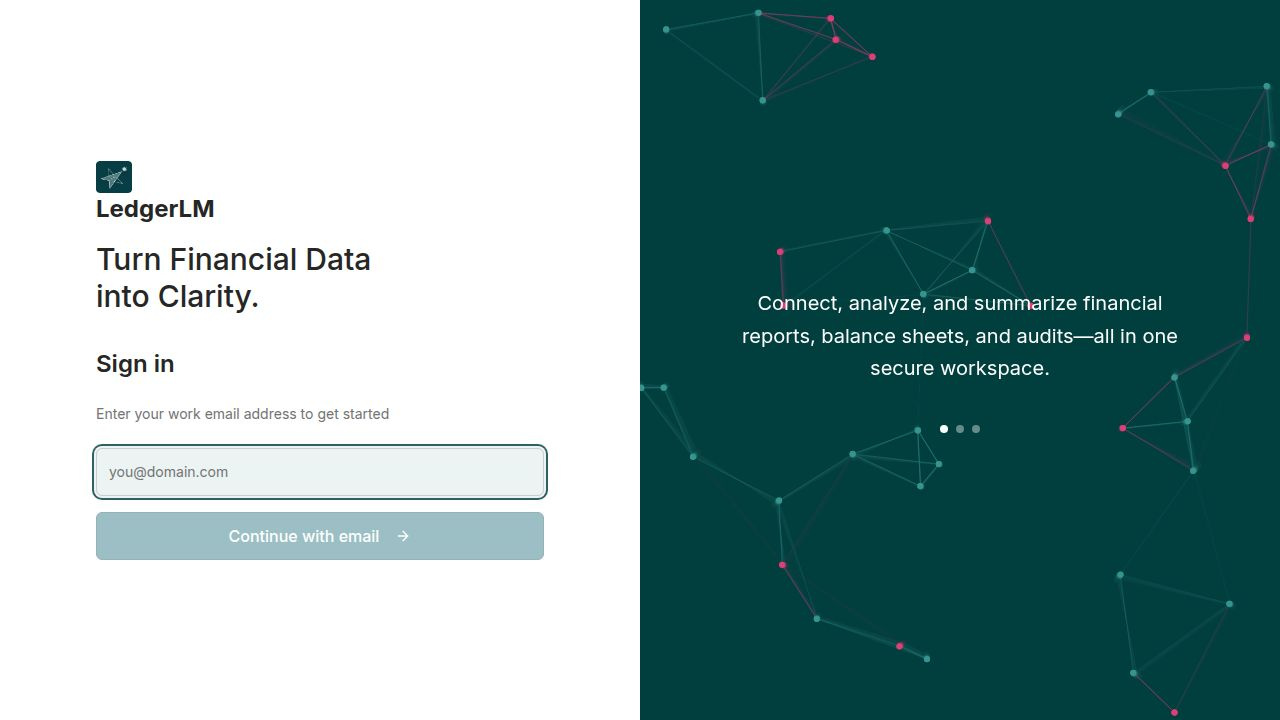
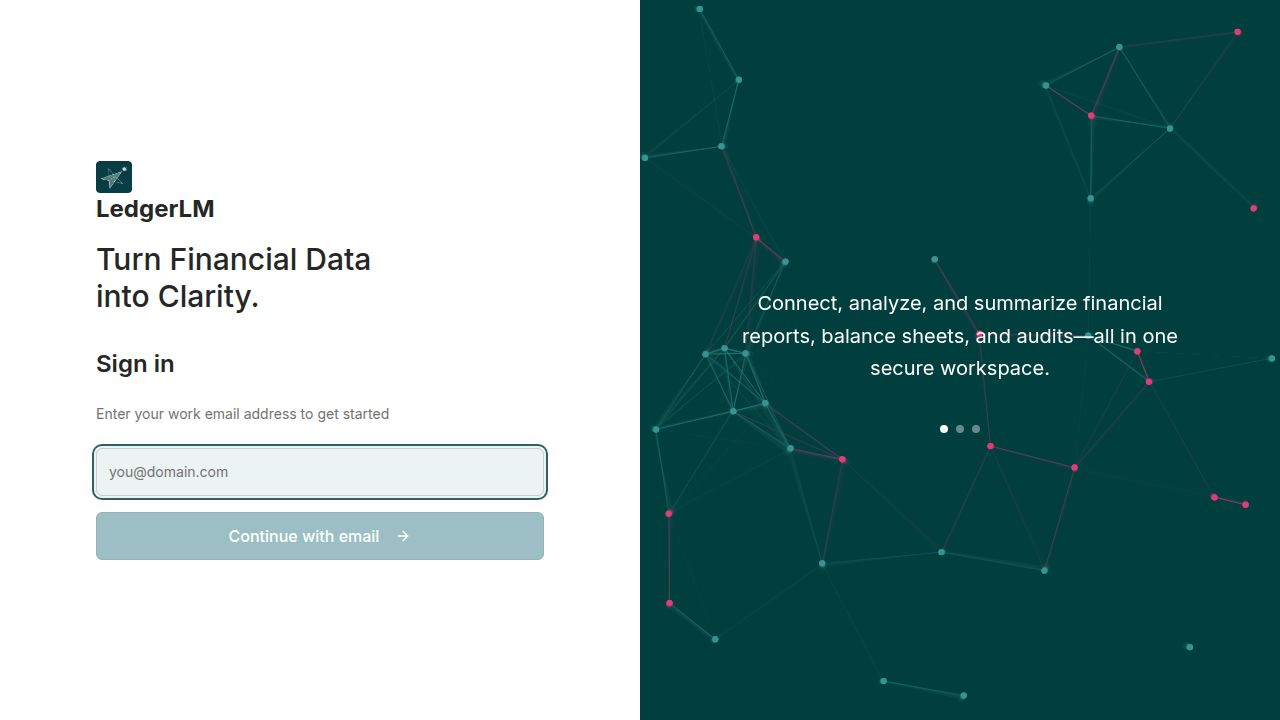
Add ability to query multiple metrics simultaneously
Update LLM prompts and backend logic to support selecting and merging results from multiple metrics in a single query, including a new helper function `_compile_multi_metric_sql` and modifications to `parse_query_with_llm`.

Replit-Commit-Author: Agent
Replit-Commit-Session-Id: 25b33a7b-de29-4b11-a0fe-f6c2087462d3
Replit-Commit-Checkpoint-Type: full_checkpoint
Replit-Commit-Event-Id: 413769ee-c68b-4ccc-88e5-ec9bda55f895
Replit-Commit-Screenshot-Url: https://storage.googleapis.com/screenshot-production-us-central1/9344d74b-0c6d-402b-95ed-00d2c859d007/25b33a7b-de29-4b11-a0fe-f6c2087462d3/YuCQRBi

diff --git a/ledgerlm/python_backend/services/semantic_sql_service.py b/ledgerlm/python_backend/services/semantic_sql_service.py
@@ -883,7 +883,7 @@ Given a user query, identify:
 3. How to group results (entity, salary_level, sector, etc.)
 4. Any filters to apply (including view filters)
 
-METRIC CATALOG (choose EXACTLY one metric_id):
+METRIC CATALOG (choose one or more metric_ids — include ALL metrics the user asks about):
 {metrics}
 
 VIEW FILTERS (add to filters if user mentions these):
@@ -932,7 +932,7 @@ MONTH AND QUARTER RULES:
 
 Respond with ONLY valid JSON (no markdown, no explanation):
 {{
-  "metric": "<exact metric_id from catalog>",
+  "metrics": ["<metric_id_1>", "<metric_id_2_if_requested>"],
   "year": <number>,
   "month": <single number, list of numbers, or null for YTD>,
   "group_by": ["<grouping columns>"],
@@ -940,6 +940,10 @@ Respond with ONLY valid JSON (no markdown, no explanation):
   "view": "<MS|SX|VM|PS|XC|Entity or null>",
   "confidence": <0.0 to 1.0>
 }}
+
+IMPORTANT: "metrics" is ALWAYS an array, even for a single metric.
+If the user asks for multiple metrics (e.g. "offshore capacity AND budget"), list ALL of them.
+If the user asks for ONE metric, still use an array with one element: ["metric_id"].
 
 USER QUERY: {query}"""
 
@@ -954,9 +958,21 @@ def parse_query_with_llm(query: str, openai_client=None) -> Dict[str, Any]:
             if result_text.startswith("json"): result_text = result_text[4:]
             result_text = result_text.strip()
         parsed = json.loads(result_text)
-        metric_id = parsed.get("metric", "")
-        if metric_id not in METRIC_CATALOG:
-            return {"success": False, "error": f"Unknown metric: {metric_id}", "raw_response": parsed}
+        # Support both "metrics": [...] (new) and "metric": "..." (legacy backward compat)
+        raw_metrics = parsed.get("metrics")
+        if not raw_metrics:
+            legacy = parsed.get("metric", "")
+            raw_metrics = [legacy] if legacy else []
+        if not raw_metrics:
+            return {"success": False, "error": "No metric returned by LLM", "raw_response": parsed}
+        # Validate all metric IDs — keep only known ones
+        valid_metrics = [m for m in raw_metrics if m in METRIC_CATALOG]
+        if not valid_metrics:
+            return {"success": False, "error": f"Unknown metric(s): {raw_metrics}", "raw_response": parsed}
+        # Primary metric (first valid) for backward compat fields
+        metric_id = valid_metrics[0]
+        parsed["metric"] = metric_id
+        parsed["metrics"] = valid_metrics
         parsed["builder"] = METRIC_CATALOG[metric_id]["builder"]
         parsed["success"] = True
         view = parsed.get("view", "").upper() if parsed.get("view") else None
@@ -11238,6 +11254,109 @@ Return a JSON object with:
 
     # ==================== END NEMKO P&L SQL BUILDERS ====================
 
+    def _compile_multi_metric_sql(
+        self,
+        metric_ids: List[str],
+        cube_id: str,
+        intent: Dict[str, Any],
+        domain: str = None,
+    ) -> Dict[str, Any]:
+        """
+        Run each metric builder independently (with its own intent copy) then
+        merge the result rows on shared dimension columns (region_entity, month,
+        year, etc.).  If any builder fails, its column is silently omitted so
+        the rest of the results still surface.
+        """
+        import copy, time
+        start = time.time()
+        all_results: List[Dict[str, Any]] = []
+        sql_queries: List[str] = []
+        failed: List[str] = []
+
+        for metric_id in metric_ids:
+            metric_intent = copy.deepcopy(intent)
+            metric_intent['use_calculation'] = metric_id
+            try:
+                compile_result = self.compile_calculation_sql(metric_id, cube_id, metric_intent, domain)
+                if not compile_result.get('success'):
+                    logger.warning(f"[MULTI-METRIC] compile failed for '{metric_id}': {compile_result.get('error')}")
+                    failed.append(metric_id)
+                    continue
+                sql = compile_result.get('sql') or compile_result.get('sql_query', '')
+                params = compile_result.get('params', [])
+                if not sql:
+                    logger.warning(f"[MULTI-METRIC] No SQL generated for '{metric_id}'")
+                    failed.append(metric_id)
+                    continue
+                exec_result = self.execute_query(sql, params, cube_id, user_id='system', skip_logging=True)
+                if exec_result.get('success') and exec_result.get('results') is not None:
+                    all_results.append({'metric_id': metric_id, 'rows': exec_result['results']})
+                    sql_queries.append(f"-- {metric_id}\n{sql}")
+                else:
+                    logger.warning(f"[MULTI-METRIC] execute failed for '{metric_id}': {exec_result.get('error')}")
+                    failed.append(metric_id)
+            except Exception as e:
+                logger.warning(f"[MULTI-METRIC] Exception for '{metric_id}': {e}")
+                failed.append(metric_id)
+
+        if not all_results:
+            return {
+                'success': False,
+                'error': f"All metric builders failed: {metric_ids}",
+                'use_rag': True,
+            }
+
+        # ── Merge rows on shared dimension keys ───────────────────────────────
+        # Dimension columns are non-numeric keys.  We use the first result's
+        # column set to detect them, then join subsequent results on those keys.
+        KNOWN_DIMENSION_KEYS = {
+            'region_entity', 'month', 'year', 'sector', 'salary_level',
+            'project_gb', 'planning_gb', 'resource_type', 'onsite_offshore',
+            'new_service_area', 'service_area', 'employee_number', 'employee_name',
+        }
+
+        def _dim_keys(rows: List[Dict]) -> List[str]:
+            if not rows:
+                return []
+            return [k for k in rows[0].keys() if k in KNOWN_DIMENSION_KEYS]
+
+        # Build merged dict keyed by frozenset of dim-key values
+        merged: Dict[tuple, Dict[str, Any]] = {}
+
+        for entry in all_results:
+            rows = entry['rows']
+            if not rows:
+                continue
+            dim_keys = _dim_keys(rows)
+            for row in rows:
+                key = tuple(row.get(k) for k in dim_keys) if dim_keys else ('__total__',)
+                if key not in merged:
+                    merged[key] = {k: row[k] for k in dim_keys} if dim_keys else {}
+                # Add all non-dimension columns from this row
+                for col, val in row.items():
+                    if col not in KNOWN_DIMENSION_KEYS:
+                        merged[key][col] = val
+
+        merged_rows = list(merged.values())
+        all_columns = list(merged_rows[0].keys()) if merged_rows else []
+
+        elapsed_ms = int((time.time() - start) * 1000)
+        logger.info(
+            f"[MULTI-METRIC] Merged {len(metric_ids)} metrics → {len(merged_rows)} rows "
+            f"in {elapsed_ms}ms. Failed: {failed}"
+        )
+
+        return {
+            'success': True,
+            'results': merged_rows,
+            'row_count': len(merged_rows),
+            'columns': all_columns,
+            'sql_query': '\n\n'.join(sql_queries),
+            'execution_ms': elapsed_ms,
+            'currency': intent.get('currency', 'usd'),
+            'calculation_type': 'multi_metric',
+        }
+
     def compile_sql(self,
                     intent: Dict[str, Any],
                     cube_id: str,
@@ -11496,11 +11615,16 @@ Return a JSON object with:
 
                     if llm_result.get('success') and llm_result.get(
                             'confidence', 0) >= 0.7:
-                        metric_id = llm_result.get('metric')
+                        # Support both "metrics": [...] (new) and "metric": "..." (legacy)
+                        metric_ids_llm = llm_result.get('metrics') or []
+                        if not metric_ids_llm and llm_result.get('metric'):
+                            metric_ids_llm = [llm_result['metric']]
+                        metric_ids_llm = [m for m in metric_ids_llm if m]
+                        metric_id = metric_ids_llm[0] if metric_ids_llm else None
                         builder_name = llm_result.get('builder')
 
                         logger.info(
-                            f"LLM routing: metric={metric_id}, confidence={llm_result.get('confidence')}, builder={builder_name}"
+                            f"LLM routing: metrics={metric_ids_llm}, confidence={llm_result.get('confidence')}, builder={builder_name}"
                         )
 
                         # Update intent with LLM-parsed values
@@ -11576,11 +11700,19 @@ Return a JSON object with:
                                         'value': val
                                     })
 
-                        # Set use_calculation from LLM result for routing
+                        # Set primary use_calculation from first metric (backward compat)
                         intent['use_calculation'] = metric_id
                         use_calculation = metric_id
 
-                        # Route to the builder via compile_calculation_sql
+                        # ── Multi-metric: run each builder then merge ──────────
+                        if len(metric_ids_llm) > 1:
+                            logger.info(
+                                f"[MULTI-METRIC] Detected {len(metric_ids_llm)} metrics: {metric_ids_llm}"
+                            )
+                            return self._compile_multi_metric_sql(
+                                metric_ids_llm, cube_id, intent, domain)
+
+                        # Single metric: existing path unchanged
                         return self.compile_calculation_sql(
                             metric_id, cube_id, intent, domain)
                     else: